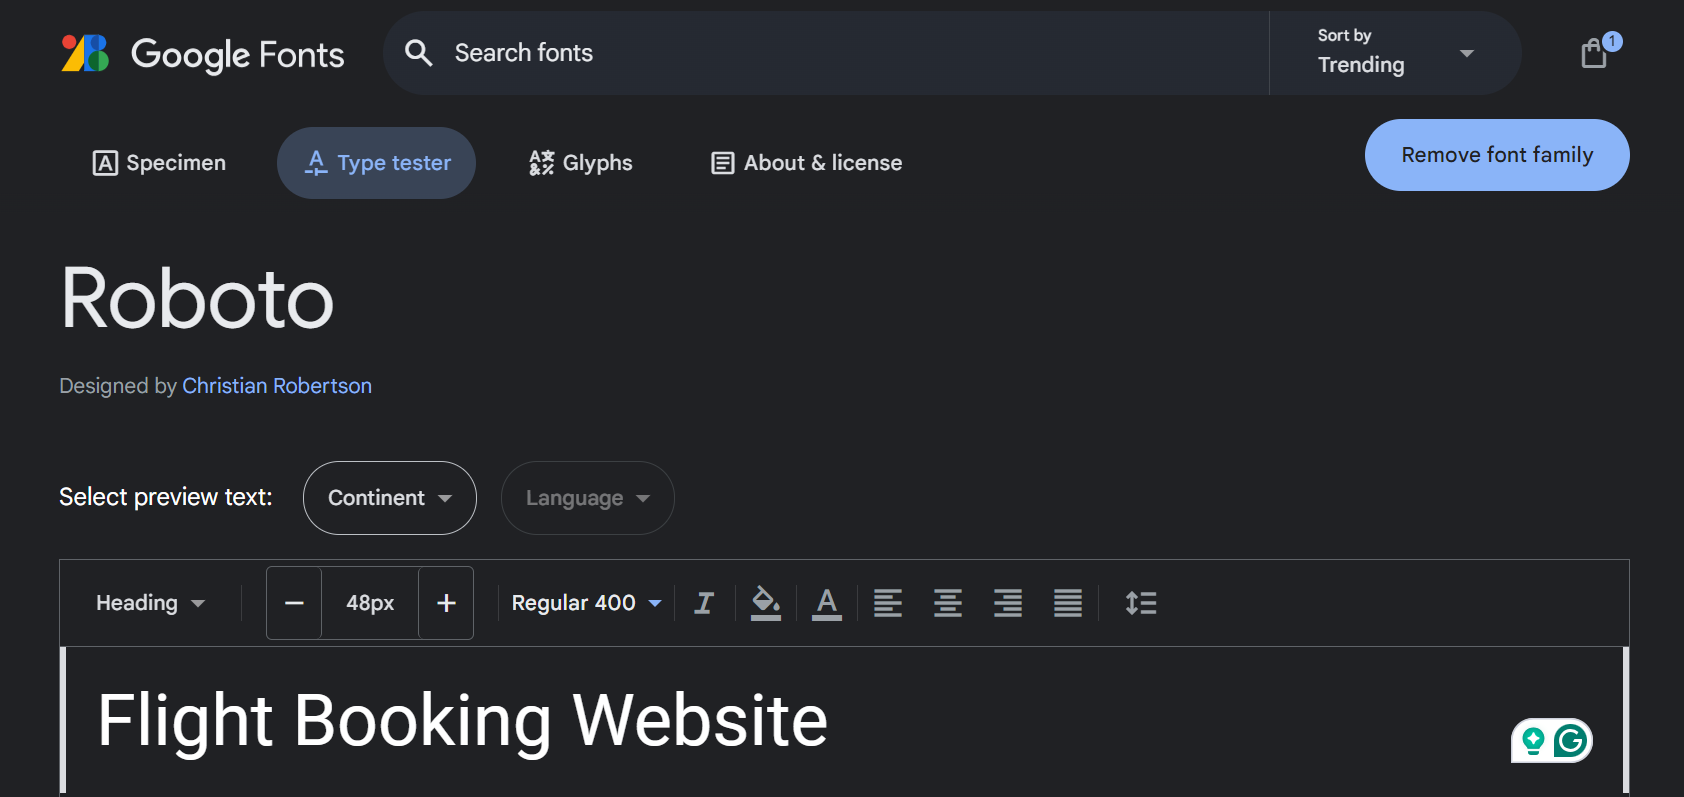
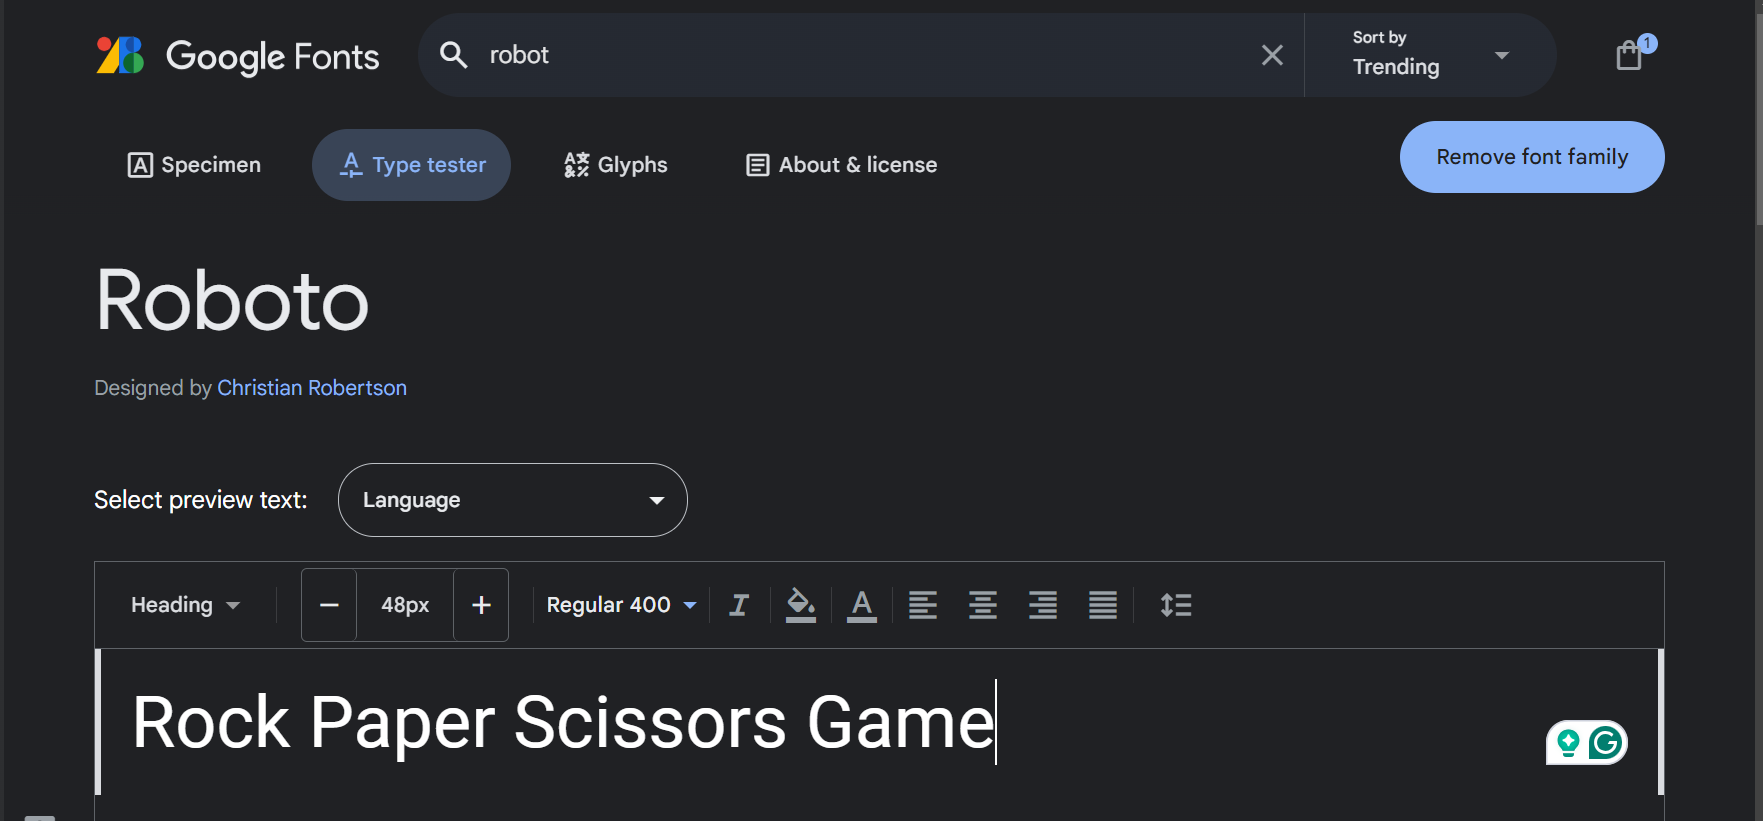
git: add roboto google font to README

diff --git a/README.md b/README.md
@@ -77,3 +77,10 @@ As First Time User of the Rock, Paper, Scissors game website, I want to enjoy a 
   - The white color is used as the text color of the header, background text and the game page background.
   - The yellow color for "YOU DRAW" that pops up at the game page when the game is drawned between the player and machine.
   - Ralsin black color was used as the right side color of the header.
+
+  ### Typography
+
+   - Roboto google font was used as the main font of the website in order to increase readability of the content on the pages.
+
+  ![Roboto Font](assets/image/roboto.png)
+  
